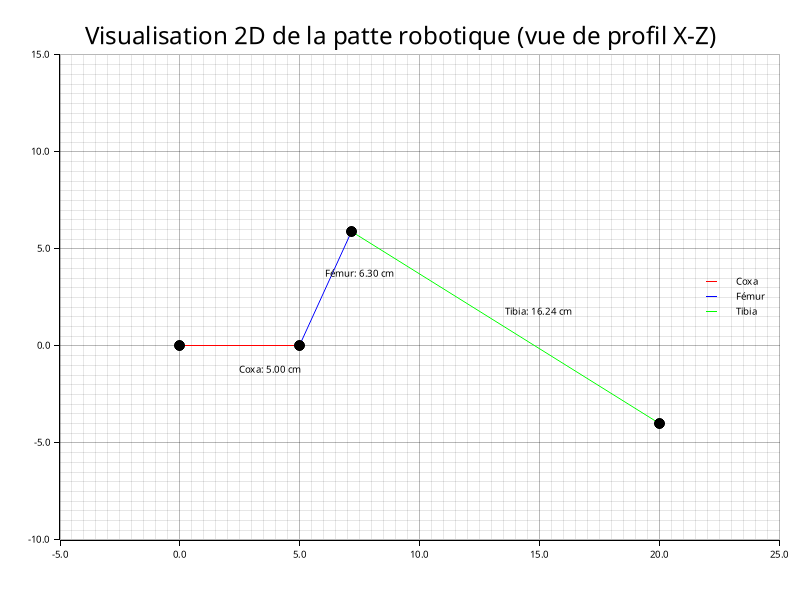
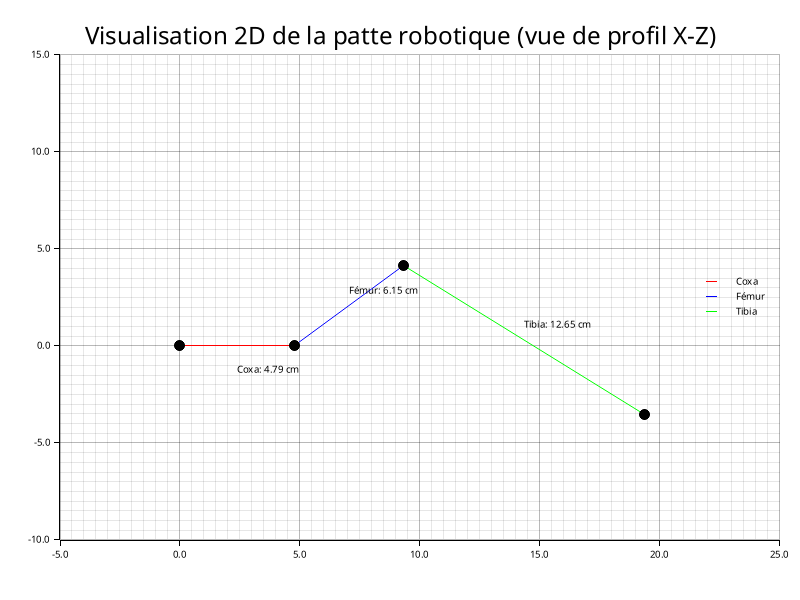
Refactor leg kinematics calculations to improve angle determination and enhance target positioning accuracy

diff --git a/Rust/trigo-calc/src/main.rs b/Rust/trigo-calc/src/main.rs
@@ -20,57 +20,90 @@ fn calcul(x: f64, y: f64, z: f64) {
 
     let h = (z * z + (x - COXA) * (x - COXA)).sqrt();
 
+    // Theta 1: angle azimuthal du coxa (rotation autour de Z)
     let theta1 = y.atan2(x);
-    let theta2 = (tpatte - COXA).atan2(z);
-    let theta3_theta4 = ((FEMUR * FEMUR + h * h - TIBIA * TIBIA) / (2.0 * FEMUR * h)).acos();
-
-    // Séparer theta3 et theta4 en soustrayant theta2 et theta3-4 de 180 pour obtenir theta7
-    // Obtenir theta4 en retirant theta7 de 90 degrés
-    let theta7 = 180.0_f64.to_radians() - (theta3_theta4 + theta2);
-    let theta4 = 90.0_f64.to_radians() - theta7;
-    let theta3 = theta3_theta4 - theta4;
-    let theta5 = ((FEMUR * FEMUR + TIBIA * TIBIA - h * h) / (2.0 * FEMUR * TIBIA)).acos();
+    
+    // Application de la loi des cosinus pour trouver l'angle d'articulation entre fémur et tibia
+    let cos_theta5 = (FEMUR * FEMUR + TIBIA * TIBIA - h * h) / (2.0 * FEMUR * TIBIA);
+    
+    // Vérifier que le calcul est valide
+    if cos_theta5 > 1.0 || cos_theta5 < -1.0 {
+        println!("Erreur: position cible non atteignable !");
+        return;
+    }
+    
+    let theta5 = cos_theta5.acos(); // angle entre fémur et tibia
+    
+    // (coxa position -> target) à (coxa articulation -> femur -> target)
+    // cos(angle_au_coxa) = (FEMUR^2 + h^2 - TIBIA^2) / (2 * FEMUR * h)
+    let cos_angle_au_coxa = (FEMUR * FEMUR + h * h - TIBIA * TIBIA) / (2.0 * FEMUR * h);
+    let angle_au_coxa = cos_angle_au_coxa.acos();
+    
+    // L'angle d'élévation du vecteur cible par rapport au coxa
+    let target_horiz_dist = tpatte - COXA;
+    let elev_angle = z.atan2(target_horiz_dist);
+    
+    let theta4 = elev_angle + angle_au_coxa;
 
     // Afficher les angles calculés
     println!("Angles calculés (en degrés) :");
     println!("Theta 1 (Coxa)  : {:.2}°", theta1.to_degrees());
-    println!("Theta 2 (Fémur)  : {:.2}°", theta2.to_degrees());
-    println!("Theta 3 (Fémur) : {:.2}°", theta3.to_degrees());
-    println!("Theta 4 (Tibia) : {:.2}°", theta4.to_degrees());
+    println!("Theta 4 (Fémur) : {:.2}°", theta4.to_degrees());
     println!("Theta 5 (Tibia) : {:.2}°", theta5.to_degrees());
-    println!("Theta 7 (Interne) : {:.2}°", theta7.to_degrees());
+    println!("Angle d'élévation : {:.2}°", elev_angle.to_degrees());
+    println!("Angle au coxa : {:.2}°", angle_au_coxa.to_degrees());
 
-    // Calcul des longueurs des vecteurs ( vue du ciel ) (c', f', t')
+    // Projections horizontales des segments pour vue de dessus
     let c_prime = COXA;
-    let f_prime = FEMUR * theta4.to_radians().cos();
-    let t_prime = x - (c_prime + f_prime);
+    let f_prime = FEMUR * theta4.cos();
+    let t_prime = tpatte - (c_prime + f_prime);
 
     println!("\nLongueurs des projections des segments de la patte (vue du ciel) :");
     println!("Coxa (c')  : {:.2} cm", c_prime);
     println!("Fémur (f') : {:.2} cm", f_prime);
     println!("Tibia (t') : {:.2} cm", t_prime);
 
+    // Projections verticales pour vue de profil
     println!("\nLongeurs des projections de la patte (vue de profil) :");
-    let c_prime_prime = COXA;
-    let f_double_prime = FEMUR * theta4.to_radians().sin();
+    let _c_prime_prime = COXA;
+    let f_double_prime = FEMUR * theta4.sin();
     let t_double_prime = (z * z + t_prime * t_prime).sqrt();
 
     println!("Fémur (f'') : {:.2} cm", f_double_prime);
     println!("Tibia (t'') : {:.2} cm", t_double_prime);
 
-
-    // Calcul des coordonnées des articulations
+    // Coordonnées 3D de chaque articulation
+    
+    // Origine: base du coxa
     let x_coxa: f64 = 0.0;
     let y_coxa: f64 = 0.0;
     let z_coxa: f64 = 0.0;
 
+    // Extrémité du coxa après rotation theta1
     let x_femur: f64 = COXA * theta1.cos();
     let y_femur: f64 = COXA * theta1.sin();
     let z_femur: f64 = 0.0;
 
+    // Extrémité du fémur: extension dans le plan vertical orienté par theta1
     let x_tibia: f64 = x_femur + FEMUR * theta1.cos() * theta4.cos();
     let y_tibia: f64 = y_femur + FEMUR * theta1.sin() * theta4.cos();
-    let z_tibia: f64 = FEMUR * theta4.sin();
+    let z_tibia: f64 = z_femur + FEMUR * theta4.sin();
+
+    // Position finale: extension du tibia vers la cible
+    // Normalisation du vecteur tibia->cible pour respecter la longueur TIBIA
+    let to_target_x = x - x_tibia;
+    let to_target_y = y - y_tibia;
+    let to_target_z = z - z_tibia;
+    let dist_to_target = (to_target_x * to_target_x + to_target_y * to_target_y + to_target_z * to_target_z).sqrt();
+    
+    // Vecteur tibia normalisé à la longueur exacte
+    let tibia_extension_x = TIBIA * to_target_x / dist_to_target;
+    let tibia_extension_y = TIBIA * to_target_y / dist_to_target;
+    let tibia_extension_z = TIBIA * to_target_z / dist_to_target;
+    
+    let x_end: f64 = x_tibia + tibia_extension_x;
+    let y_end: f64 = y_tibia + tibia_extension_y;
+    let z_end: f64 = z_tibia + tibia_extension_z;
 
     println!("\nCoordonnées des articulations :");
     println!(
@@ -85,42 +118,47 @@ fn calcul(x: f64, y: f64, z: f64) {
         "Tibia  : X: {:.2} | Y: {:.2} | Z: {:.2}",
         x_tibia, y_tibia, z_tibia
     );
-    println!("Cible  : X: {:.2} | Y: {:.2} | Z: {:.2}", x, y, z);
+    println!(
+        "Cible calculée : X: {:.2} | Y: {:.2} | Z: {:.2}",
+        x_end, y_end, z_end
+    );
+    println!("Cible visée    : X: {:.2} | Y: {:.2} | Z: {:.2}", x, y, z);
 
 
-    // Comparatif des mesures trouvées via les coordonnées et les longueurs réelles
+    // Vérification: distances calculées vs longueurs théoriques des segments
     println!("\nComparatif des mesures (coordonnées vs longueurs réelles) :");
     println!(
         "Coxa   : Coordonnées (X-Y): {:.2} cm | Longueur réelle c'': {:.2} cm",
-        ((x_femur - x_coxa).powi(2) + (z_femur - z_coxa).powi(2)).sqrt(),
+        ((x_femur - x_coxa).powi(2) + (y_femur - y_coxa).powi(2) + (z_femur - z_coxa).powi(2)).sqrt(),
         COXA
     );
     println!(
         "Fémur  : Coordonnées (X-Y): {:.2} cm | Longueur réelle f'': {:.2} cm",
-        ((x_tibia - x_femur).powi(2) + (z_tibia - z_femur).powi(2)).sqrt(),
+        ((x_tibia - x_femur).powi(2) + (y_tibia - y_femur).powi(2) + (z_tibia - z_femur).powi(2)).sqrt(),
         FEMUR
     );
     println!(
         "Tibia  : Coordonnées (X-Y): {:.2} cm | Longueur réelle t'': {:.2} cm",
-        ( (x - x_tibia).powi(2) + (z - z_tibia).powi(2) ).sqrt(),
+        ((x_end - x_tibia).powi(2) + (y_end - y_tibia).powi(2) + (z_end - z_tibia).powi(2)).sqrt(),
         TIBIA
     );
+    println!("Cible finale: Coordonnées (X-Y-Z): {:.2} cm; {:.2} cm; {:.2} cm | Cible réelle (X-Y-Z): {} cm; {} cm; {} cm", x_end, y_end, z_end, x, y, z);
 
-    // Générer la vue du ciel (x;y)
+    // Génération des visualisations 2D
     if let Err(e) = visualize_leg_top_view(
         (x_coxa, y_coxa),
         (x_femur, y_femur),
         (x_tibia, y_tibia),
-        (x, y),
+        (x_end, y_end),
     ) {
         println!("Erreur lors de la génération de la vue du ciel : {}", e);
     }
-    // Générer la visualisation de profile (x;z)
+    
     if let Err(e) = visualize_leg(
         (x_coxa, z_coxa),
         (x_femur, z_femur),
         (x_tibia, z_tibia),
-        (x, z),
+        (x_end, z_end),
     ) {
         println!("Erreur lors de la génération de la visualisation : {}", e);
     }
@@ -130,7 +168,7 @@ fn main() {
     println!("=== Programme de calcul -> trygonométrie ===");
 
     let x = 20.0;
-    let y = 0.0;
+    let y = 6.0;
     let z = -4.0;
 
     calcul(x, y, z);
